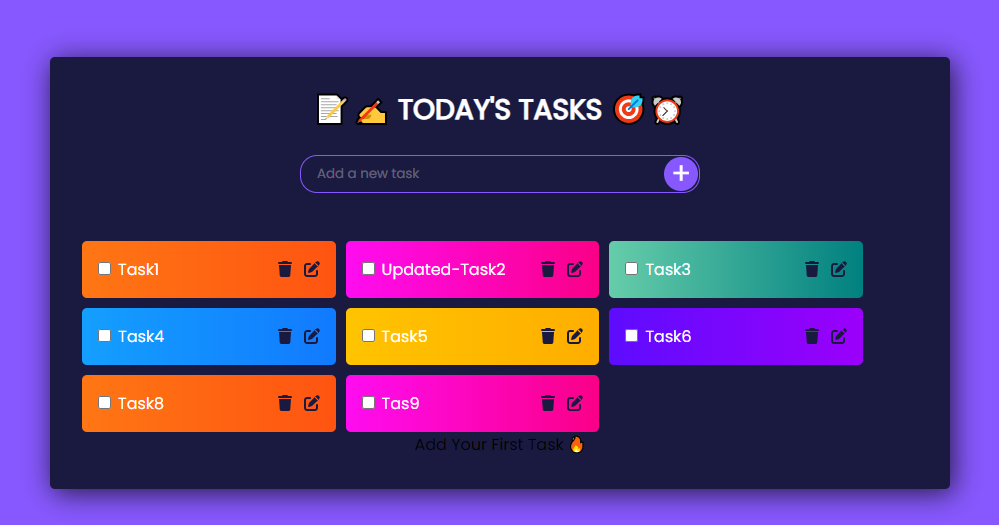
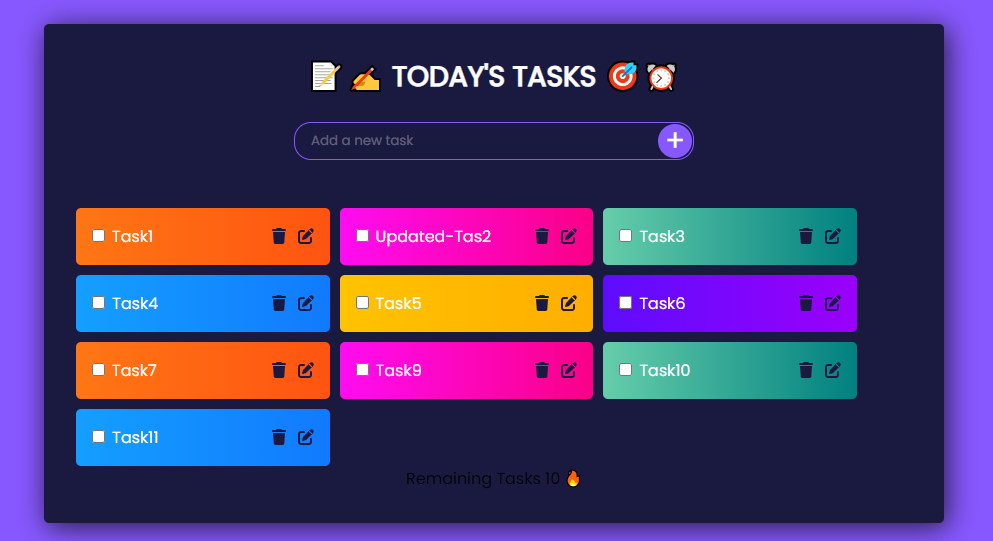
Todo App Is Done

diff --git a/src/App.js b/src/App.js
@@ -20,6 +20,7 @@ function App() {
     setListOfTodos(updatedTodos);
   };
 
+
   return (
     <div className="TodoWrapper">
       <h1>📝✍ Today's Tasks 🎯⏰</h1>
@@ -37,7 +38,7 @@ function App() {
             ))
           : ""}
       </div>
-      <p>Add Your First Task 🔥</p>
+      {ListOfTodos.length === 0 ? <p>Add Your First Task 🔥</p> : <p>Remaining Tasks {ListOfTodos.length} 🔥</p>}
     </div>
   );
 }
